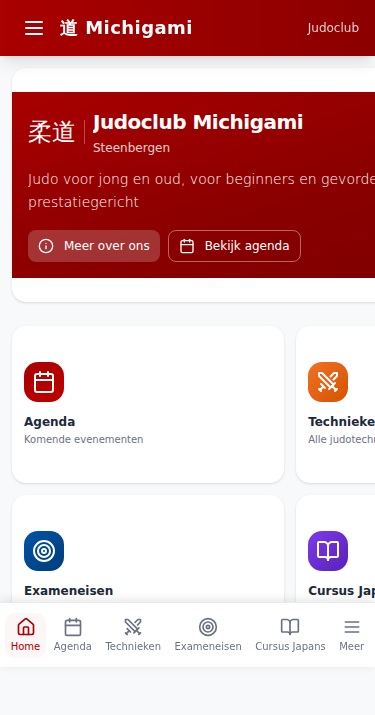
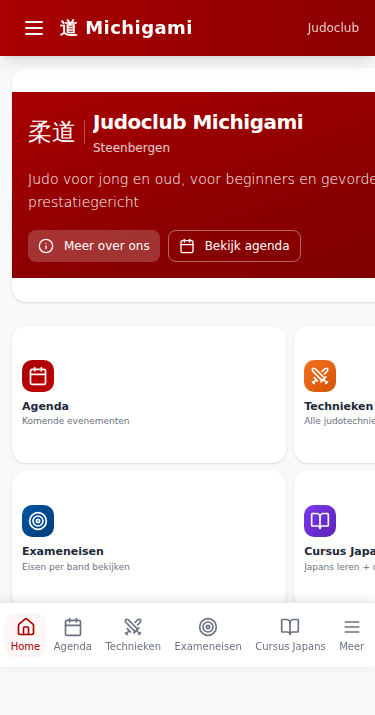
Fix: Vervang shadcn Card door pure divs voor grid - hardcoded px-6 padding was oorzaak van overflow

diff --git a/src/app/page.tsx b/src/app/page.tsx
@@ -253,22 +253,20 @@ function HomeSection({ onNavigate }: { onNavigate: (s: Section) => void }) {
       </Card>
 
       {/* Quick Links Grid */}
-      <div className="grid grid-cols-2 gap-1.5 sm:gap-3">
+      <div className="grid grid-cols-2 gap-2 sm:gap-3">
         {[
           { key: 'agenda' as Section, label: 'Agenda', desc: 'Komende evenementen', icon: <Calendar className="w-5 h-5 sm:w-6 sm:h-6" />, color: 'from-[#a90000] to-[#c00000]' },
           { key: 'technieken' as Section, label: 'Technieken', desc: 'Alle judotechnieken', icon: <Swords className="w-5 h-5 sm:w-6 sm:h-6" />, color: 'from-[#f37021] to-[#d35400]' },
           { key: 'exameneisen' as Section, label: 'Exameneisen', desc: 'Eisen per band bekijken', icon: <Target className="w-5 h-5 sm:w-6 sm:h-6" />, color: 'from-[#0054a6] to-[#003d7a]' },
           { key: 'cursusjapans' as Section, label: 'Cursus Japans', desc: 'Japans leren + quiz', icon: <BookOpen className="w-5 h-5 sm:w-6 sm:h-6" />, color: 'from-[#7c3aed] to-[#5b21b6]' },
         ].map((item) => (
-          <Card key={item.key} className="cursor-pointer hover:shadow-lg transition-all border-0 overflow-hidden group" onClick={() => onNavigate(item.key)}>
-            <CardContent className="p-2 sm:p-3 md:p-4">
-              <div className={`w-8 h-8 sm:w-10 sm:h-10 md:w-12 md:h-12 rounded-lg sm:rounded-xl bg-gradient-to-br ${item.color} text-white flex items-center justify-center mb-2 sm:mb-3 group-hover:scale-110 transition-transform`}>
-                {item.icon}
-              </div>
-              <h3 className="font-semibold text-gray-800 text-[11px] sm:text-xs md:text-sm leading-tight">{item.label}</h3>
-              <p className="text-[9px] sm:text-[10px] md:text-xs text-gray-500 mt-0.5 line-clamp-1">{item.desc}</p>
-            </CardContent>
-          </Card>
+          <div key={item.key} onClick={() => onNavigate(item.key)} className="cursor-pointer bg-white rounded-lg sm:rounded-xl shadow-sm hover:shadow-lg transition-all p-2 sm:p-3 md:p-4 border border-gray-100">
+            <div className={`w-8 h-8 sm:w-10 sm:h-10 md:w-12 md:h-12 rounded-lg bg-gradient-to-br ${item.color} text-white flex items-center justify-center mb-2`}>
+              {item.icon}
+            </div>
+            <h3 className="font-semibold text-gray-800 text-[11px] sm:text-xs md:text-sm leading-tight truncate">{item.label}</h3>
+            <p className="text-[9px] sm:text-[10px] md:text-xs text-gray-500 mt-0.5 line-clamp-1">{item.desc}</p>
+          </div>
         ))}
       </div>
 
